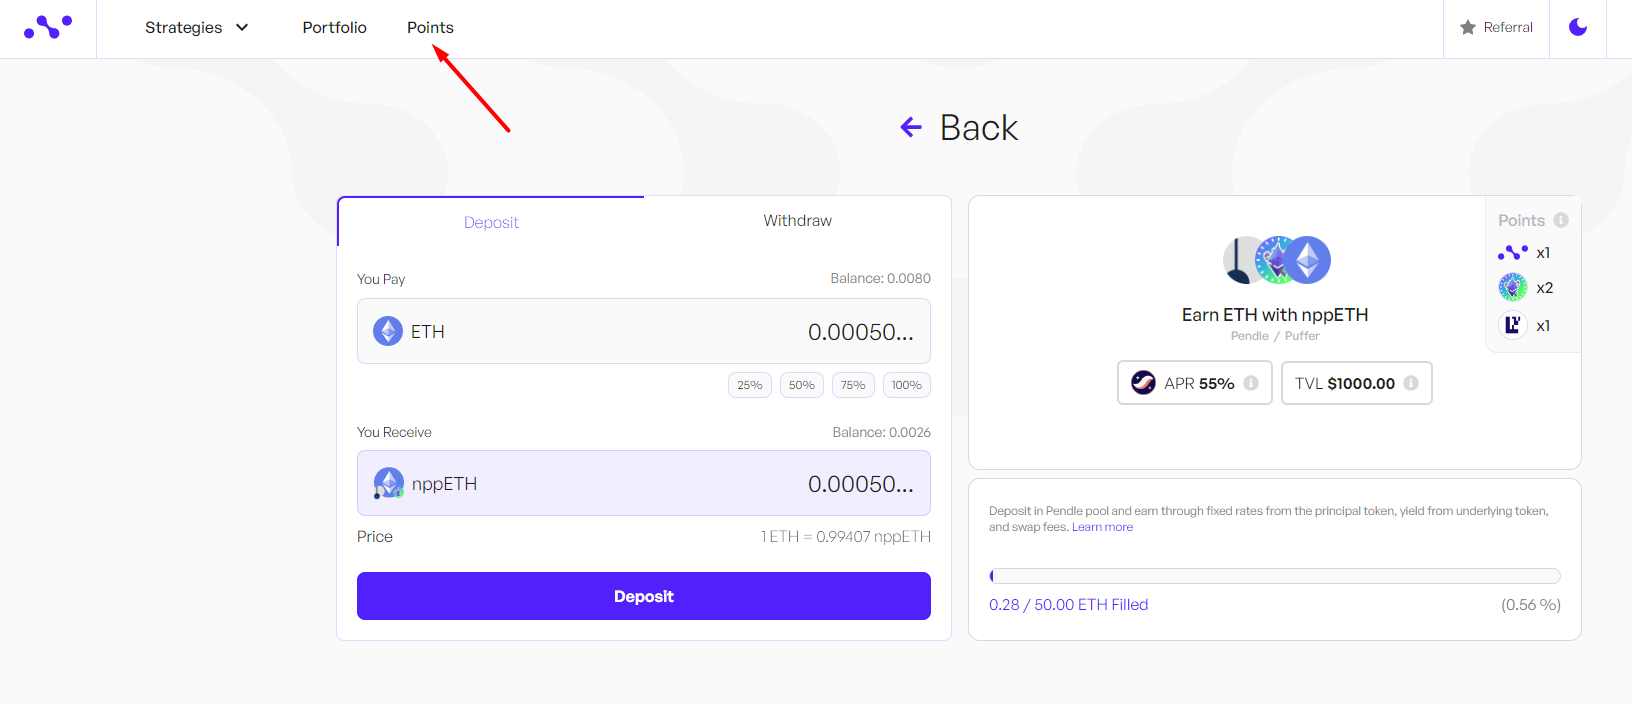
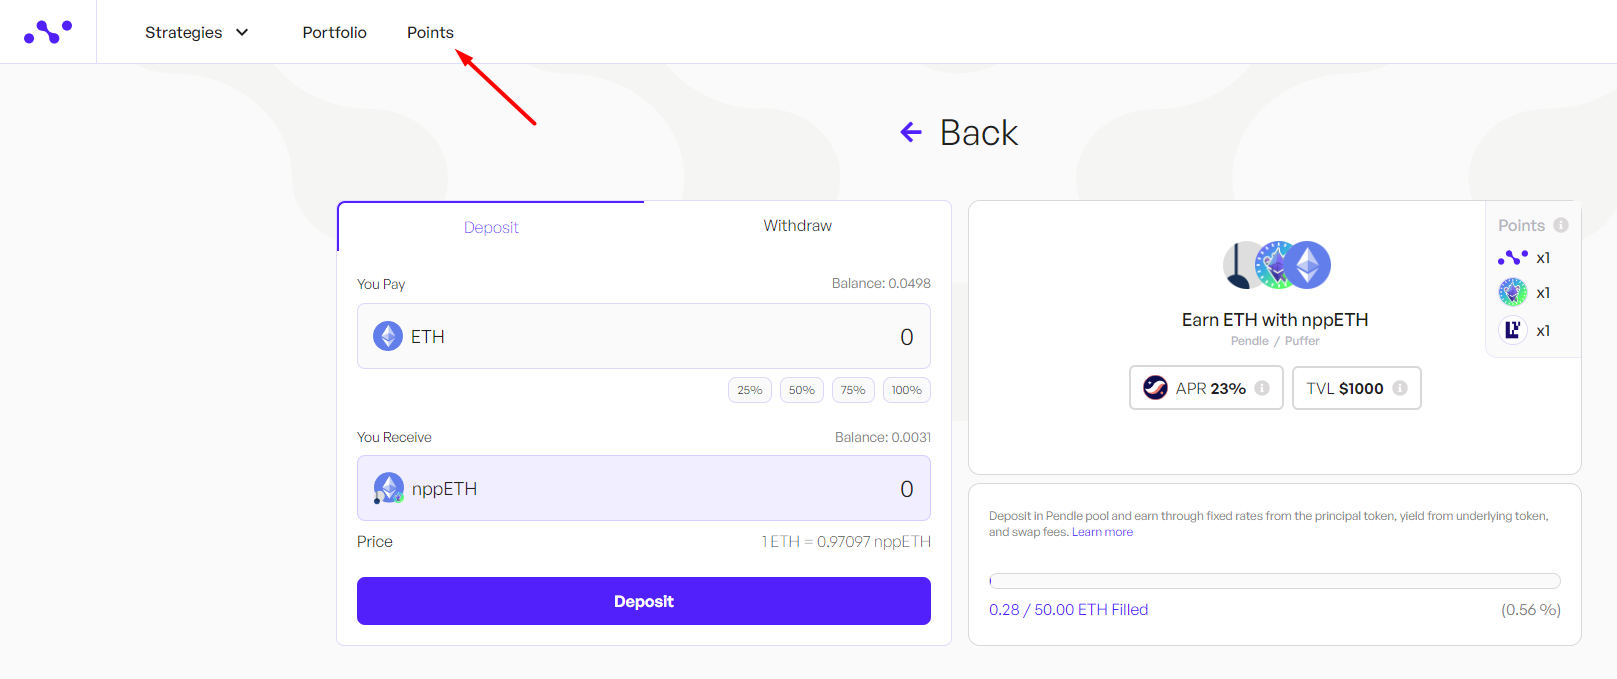
puffer strategy update

diff --git a/docs/concepts/products/earn/pendle_lp_integration/02-puffer.md b/docs/concepts/products/earn/pendle_lp_integration/02-puffer.md
@@ -29,12 +29,15 @@ Enter the amount of ETH you want to deposit, or click on the small buttons below
 ![Untitled](../../../../../static/content/stategy_nppeth/main.png)
 
 
-When you've selected the token amount to deposit, click on "Deposit" button and follow the prompts on your wallet ([Braavos](https://braavos.app/) or [ArgentX](https://argent.xyz/)) to complete the transaction.
-
+When you've selected the token amount to deposit, click on "Deposit" button. 
 ![Untitled](../../../../../static/content/stategy_nppeth/deposit.png)
 
-Once the transaction has been accepted on the network, a popup will appear at the bottom left of the screen to let you know.
+Follow the prompts on your wallet ([Braavos](https://braavos.app/) or [ArgentX](https://argent.xyz/)) to complete the transaction.
 ![Untitled](../../../../../static/content/stategy_nppeth/deposit_confirm.png)
+
+
+Once the transaction has been accepted on the network, a popup will appear at the bottom left of the screen to let you know.
+![Untitled](../../../../../static/content/stategy_nppeth/deposit_accepted.png)
 
 
 As a result, you will receive nppETH, which is Liquid Restaking Token (LRT). And that's it, you should be able to see your balance of Nimbora Yield Token in the portfolio section or directly into your wallet browser.
@@ -48,7 +51,7 @@ Your yield comes from several sources -  **nppETH base yield** + **$STRK** *
 2. **Boost**: Represents incentives provided by the Nimbora team using the [Starknet Catalyst grant](https://medium.com/@Nimbora/nimbora-and-starknet-catalyst-program-14cc7f2f1ab5).
 3. **Incentives**: Represents incentives provided by the Starknet Foundation as a part of the [DeFi Spring initiative](https://medium.com/@Nimbora/nimbora-joins-starknet-defi-spring-d7921e56e2e4).
 
-With this strategy you are also earning points for 3 protocols: 1x Nimbora, 2x Puffer, 1x EigenLayer.
+With this strategy you are also earning points for 3 protocols: 1x Nimbora, 1x Puffer, 1x EigenLayer.
 
 ![Untitled](../../../../../static/content/stategy_nppeth/main_points.png)
 
@@ -84,13 +87,10 @@ Nimbora takes over the task of processing this request. This involves preparing 
 
 ### What is Puffer?
 
-- **Non-Custodial Staking**: Puffer is a decentralized protocol designed to enhance the staking experience on Ethereum by providing secure, efficient, and decentralized staking solutions. It focuses on making staking more accessible and profitable for at-home validators while maintaining Ethereum’s decentralization and security.
-  - **Secure-Signer Technology**: Puffer leverages Secure-Signer, a remote signing tool using Intel SGX, to provide non-custodial staking. This ensures that users maintain control over their validator keys, enhancing security and reducing the risk of slashable offenses.
-  - **Lower Bond Requirement**: By reducing the bond requirement to just 2 ETH, Puffer lowers the entry barrier for validators, promoting a more diverse and decentralized validator set.
-
-- **Integration with EigenLayer for Enhanced Yields**: 
-  - **Restaking**: Puffer integrates with EigenLayer, allowing validators to restake their ETH and participate in additional web3 infrastructure services. This increases the potential rewards by earning both Ethereum staking rewards and restaking rewards from EigenLayer, maximizing the earning potential for validators.
-
+ - [Puffer](https://www.puffer.fi/)  is a decentralized native liquid restaking protocol (nLRP) built on Eigenlayer 🐡🤝
+    
+    It makes [native restaking](https://docs.puffer.fi/protocol/puffer-modules/#native-restaking-) on [Eigenlayer](https://www.eigenlayer.xyz/) more accessible, allowing anyone to run an Ethereum Proof of Stake (PoS) validator while supercharging their rewards.
+  
 ### Understanding Risks Associated with Puffer
 
 1. **Smart Contract Risks**:

diff --git a/docs/concepts/products/earn/pendle_lp_integration/01-etherfi.md b/docs/concepts/products/earn/pendle_lp_integration/01-etherfi.md
@@ -28,17 +28,18 @@ Enter the amount of ETH you want to deposit, or click on the small buttons below
 
 ![Untitled](../../../../../static/content/strategy_npeeth/npeeth_home.png)
 
-When you've selected the token amount to deposit, click on "Deposit" button and follow the prompts on your wallet ([Braavos](https://braavos.app/) or [ArgentX](https://argent.xyz/)) to complete the transaction.
-
+When you've selected the token amount to deposit, click on "Deposit" button.
 ![Untitled](../../../../../static/content/strategy_npeeth/npeeth_deposit.png)
 
-Once the transaction has been accepted on the network, a popup will appear at the bottom left of the screen to let you know.
+Follow the prompts on your wallet ([Braavos](https://braavos.app/) or [ArgentX](https://argent.xyz/)) to complete the transaction.
 
+![Untitled](../../../../../static/content/strategy_npeeth/npeeth_wallet.png)
+
+Once the transaction has been accepted on the network, a popup will appear at the bottom left of the screen to let you know.
 ![Untitled](../../../../../static/content/strategy_npeeth/npeeth_confirmation.png)
 
 As a result, you will receive npeETH, which is Liquid Restaking Token (LRT). And that's it, you should be able to see your balance of Nimbora Yield Token in the portfolio section or directly into your wallet browser. 
 
-![Untitled](../../../../../static/content/strategy_npeeth/npeeth_wallet.png)
 
 ## Your Earning Starts Immediately!
 
